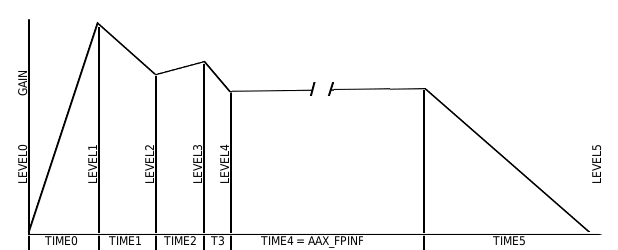
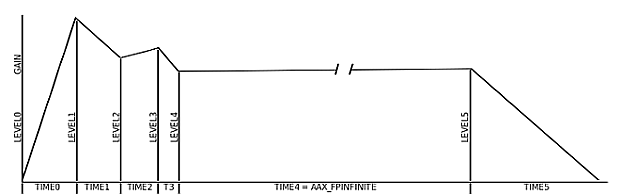
Update the manual for version 3.6 changes

Changed region(s): [[0.0, 0.0619, 0.9838, 1.0], [0.9531, 0.5567, 0.9838, 0.7423]]

diff --git a/aax_timed_gain_filter.html b/aax_timed_gain_filter.html
@@ -67,7 +67,8 @@
    </dl>
 
   <h5>Timed Gain Filter state options</h5>
-  Specify AAX_TRUE to enable the timed gain filter or AAX_FALSE to disable it.
+  Specify AAX_TRUE to enable the timed gain filter or AAX_FALSE to disable it.<br>
+  Starting with AeonWave version 3.6.0 adding AAX_ENVELOPE_FOLLOW to the state will make the gain-changes exponential.
   <p></p>
   As of AeonWave version 3.0.4 it is possible to make the envelope shape repeat
   a predefined number of times by setting state to AAX_REPEAT with the number of
@@ -75,10 +76,15 @@
   before stopping the playback. This can be useful for simulation a repeating
   hazard alarm sound, a ringing phone or a clock gong.
   <p></p>
-  A <a href="sounds/telephone.mp3" target="_blank">ringing telephone</a> or a <a href="sounds/alarm.mp3" target="_blank">hazard alarm</a> sound that repeats 5 times could for
+  Starting with AeonWave version 3.6.0 it is possible to specify AAX_RELEASE_FACTOR with a value to lengthen the time it takes to stop an emitter which has no infinite sustain period defined. The factor is multiplied by ten to have a one decimal accuracy. A factor of 1.2 therefore becomes (AAX_RELEASE_FACTOR+12).<br>
+  <p></p>
+  It is not possible to define both AAX_REPEAT and AAX_RELEASE_FACTOR. In such a case AAX_REPEAT takes precedence.
+  <p></p>
+  A <!-- <a href="sounds/telephone.mp3" target="_blank">ringing telephone</a> or a --> <a href="sounds/alarm.mp3" target="_blank">hazard alarm</a> sound that repeats 5 times could for
   instance be defined as follows using the AAXS file format:
   <table>
    <tr>
+<!--
     <td><pre>&lt;?xml version="1.0"?&gt;
  &lt;aeonwave&gt;
   &lt;sound name="Telephone" frequency="1250"&gt;
@@ -113,13 +119,12 @@
   &lt;/emitter&gt;
  &lt;/aeonwave&gt;
     </pre></td>
+-->
     <td><pre>&lt;?xml version="1.0"?&gt;
  &lt;aeonwave&gt;
   &lt;sound name="Alarm" frequency="440"&gt;
    &lt;waveform src="sine" pitch="0.935"/&gt;
-   &lt;waveform src="sawtooth"
-             processing="modulate"
-             pitch="0.5"/&gt;
+   &lt;waveform src="sawtooth" processing="modulate" pitch="0.5"/&gt;
   &lt;/sound&gt;
 
   &lt;emitter looping="true"&gt;
@@ -138,15 +143,8 @@
     &lt;/slot&gt;
    &lt;/filter&gt;
   &lt;/emitter&gt;
- &lt;/aeonwave&gt;
-
-
-
-
-
-
-
-    </pre></td>
+ &lt;/aeonwave&gt;</pre>
+    </td>
    </tr>
   </table>
 

diff --git a/aax_pitch_effect.html b/aax_pitch_effect.html
@@ -14,6 +14,8 @@
    <p></p>
    The hard maximum pitch-limit is 2.0 and cannot be altered.
    <p></p>
+   Starting with AeonWave 3.6 (pitch-effect version 1.01) it is possible to define a starting pitch value and the amount of pitch-change per second to make the effect glide towards the value specified by AAX_PITCH automatically.
+   <p></p>
    The Pitch effect is supported by the Mixer, Emitters and Audio-Frames.
 
    <h5>Pitch Effect parameters</h5>
@@ -28,16 +30,23 @@
       <dt class="v20"><div>p1</div> AAX_MAX_PITCH</dt>
       <dd>Maximum pitch value, anything higher will be saturated.<br>
           Between 0.0 and 2.0, defaults to 2.0</dd>
-      <dt class="v20"><div>p2</div> unused</dt>
-      <dd></dd>
-      <dt class="v20"><div>p3</div> unused</dt>
-      <dd></dd>
+      <dt class="v20"><div>p2</div> AAX_PITCH_START</dt>
+      <dd> Starting value of the pitch-glide.<br>
+           The end value will be the value defined by AAX_PITCH.<br>
+           Between 0.0 and 2.0, defaults to 1.0</dd>
+      <dt class="v20"><div>p3</div> AAX_PITCH_RATE</dt>
+      <dd> Pitch-change per second. If set to 1.0 it will take 1 second to alter the pitch a value of 1.0<br>
+           The pitch will glide from AAX_PITCH_START to AAX_PITCH at AAX_PITCH_RATE.<br>
+           When AAX_PITCH is reached it will remain at that value.<br>
+           A positive value, defaults to 0.0 (disabled).</dd>
      </dl>
     </dd>
    </dl>
 
    <h5>Pitch Effect state options</h5>
-   The effect is always enabled.
+   The effect is always enabled.<br>
+   To enable pitch-gliding it is required to set the state to AAX_TRUE after setting the pitch-glide parameters.<br>
+   Adding AAX_ENVELOPE_FOLLOW to the state will make the pitch-glide logarithmic.
 
  <script>addFooter("The hard maximum pitch-limit is 2.0 and cannot be altered.");
  </script>

diff --git a/aax_chorus_effect.html b/aax_chorus_effect.html
@@ -19,7 +19,7 @@
    <p></p>
    If the combined Offset parameter and Depth parameter exceeds 1.0 then the depth of the low frequency oscillator is automatically clamped. 
    <p></p>
-   Starting with AeonWave version 3.6 the code supports a frequency filter to be applied to the feedback signal before mixing it with the original.
+   Starting with AeonWave version 3.6 the code supports feedback and a frequency filter to be applied to the delayed signal before mixing it with the original. Feedback is used for adding flanging to the signal before mixing with the delayed signal.
    <p></p>
    The Chorus effect is supported by the Mixer, Emitters and Audio-Frames.
 
@@ -46,14 +46,16 @@
     </dd>
     <dd>
      <dl>Slot 1
-      <dt class="v36"><div>p0</div> AAX_CUTOFF_FREQUENCY_FB</dt>
-      <dd> Cut-off frequency for the feedback signal in Hz.<br>
+      <dt class="v36"><div>p0</div> AAX_DELAY_CUTOFF_FREQUENCY</dt>
+      <dd> Cut-off frequency for the delayed signal in Hz.<br>
            Between 20 Hz and 22050 Hz</dd>
-      <dt><div>p1</div></dt>
-      <dd>unused</dd>
-      <dt><div>p2</div></dt>
-      <dd>unused</dd>
-      <dt class="v36"><div>p3</div> AAX_RESONANCE_FB</dt>
+      <dt class="v36"><div>p1</div> AAX_DELAY_CUTOFF_FREQUENCY_HF</dt>
+      <dd class="v36">Higher cut-off frequency for the delayed signal in Hz.<br>
+           Between 20 Hz and 22050 Hz</dd>
+      <dt class="v36"><div>p2</div> AAX_FEEDBACK_GAIN</dt>
+      <dd>Gain of the feedback signal.<br>
+          Between 0.0 and 1.0</dd>
+      <dt class="v36"><div>p3</div> AAX_DELAY_RESONANCE</dt>
       <dd><a href="http://en.wikipedia.org/wiki/Q_factor" target="_blank">Resonance factor</a> of the frequency filter.<br>
           Between 0.1 en 100.0, defaults to 1.0</dd>
     </dl>

diff --git a/aax_timed_pitch_effect.html b/aax_timed_pitch_effect.html
@@ -67,7 +67,8 @@
    </dl>
 
    <h5>Timed Pitch Effect state options</h5>
-  Specify AAX_TRUE to enable the timed pitch effect or AAX_FALSE to disable it.
+  Specify AAX_TRUE to enable the timed pitch effect or AAX_FALSE to disable it.<br>
+  Starting with AeonWave version 3.6.0 adding AAX_ENVELOPE_FOLLOW to the state will make the pitch-changes logarithmic.
 
  <script>addFooter("A Timed Pitch Effect can be used to add pitch dynamics to a looping waveform sound.");
  </script>

diff --git a/scripts/template.js b/scripts/template.js
@@ -33,7 +33,7 @@ function addHead()
   document.write(" <tfoot>");
   document.write("  <tr>");
   document.write("   <td class=\"copyright\">");
-  document.write("    (C) Copyright 2005-2018 by Adalin B.V.");
+  document.write("    (C) Copyright 2005-2019 by Adalin B.V.");
   document.write("   </td>");
   document.write("   <td class=\"footer\">");
   document.write("    AeonWave Audio eXtensions Library&nbsp;<br>");
